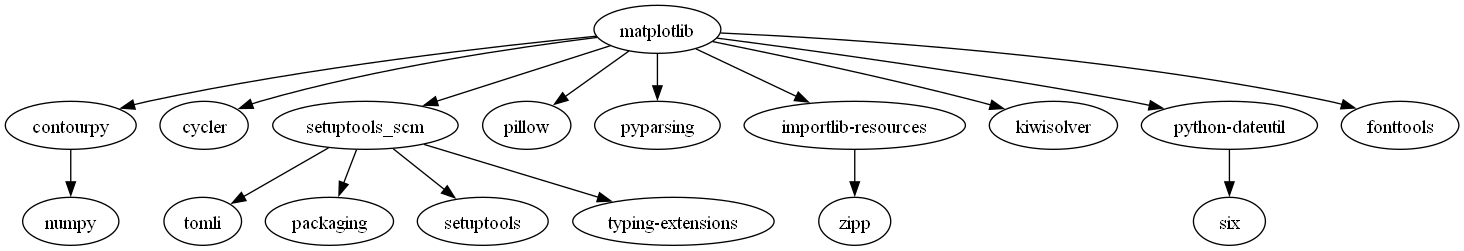
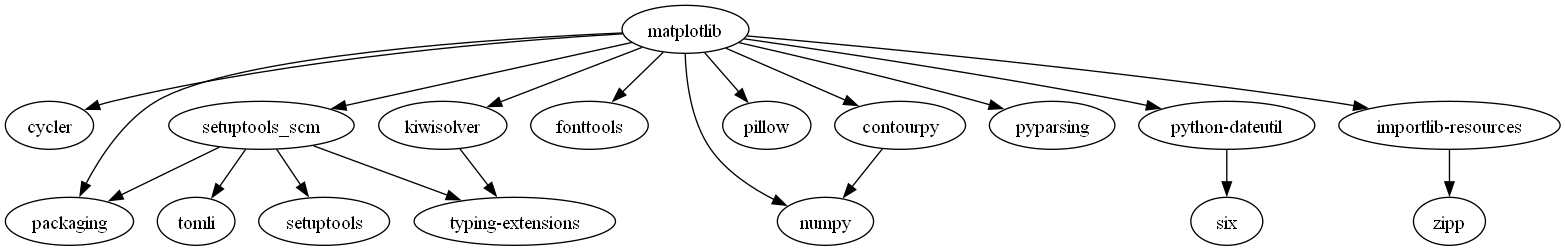
small fixes before protection

diff --git a/hw2/dependencies_graph.py b/hw2/dependencies_graph.py
@@ -36,16 +36,16 @@ def extract_package_name(dependency):
 
 def create_dependency_graph(package_name):
     graph = Digraph(format='png')
-    visited = set()
+    # visited = set()
 
     def add_dependencies(package_name):
         dependencies = get_dependencies(package_name)
         for dependency in dependencies:
-            if dependency not in visited:
-                visited.add(dependency)
-                graph.node(dependency)
-                graph.edge(package_name, dependency)
-                add_dependencies(dependency)
+            # if dependency not in visited:
+            #     visited.add(dependency)
+            graph.node(dependency)
+            graph.edge(package_name, dependency)
+            add_dependencies(dependency)
 
     graph.node(package_name)
     add_dependencies(package_name)

diff --git a/hw3/parser.py b/hw3/parser.py
@@ -106,5 +106,9 @@ data = ''.join(open(file_path, 'r', encoding='UTF-8').readlines())
 
 result = parser.parse(data)
 # print(result)
-json_result = json.dumps(result[0], ensure_ascii=False, indent=2)
+if len(result) == 1:
+    json_parser_input = result[0]
+else:
+    json_parser_input = result
+json_result = json.dumps(json_parser_input, ensure_ascii=False, indent=2)
 print(json_result)
